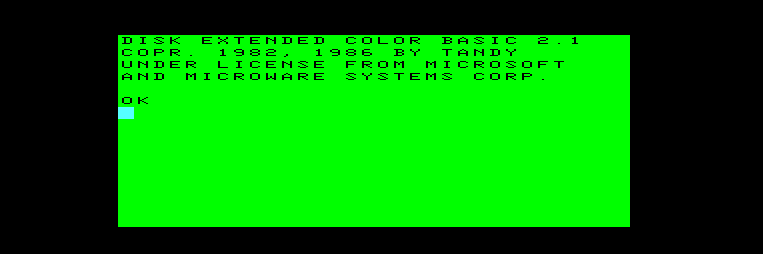
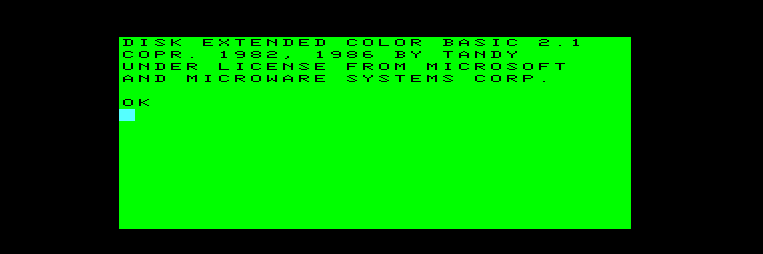
Sim: follow the 20260927 release
- sim.v: the coco3fpga ports changed (RED_O/GREEN_O/BLUE_O, PROBE_O/PROBE_I,
  Display_Debug) and so did the switch word (rs_swap, UART_INPUT, and the cart
  interrupt option on SWITCH[9]); mirror CoCo3.sv. SNAC inputs idle high.
- rtl/ovo.v: Verilog translation of the new rtl/OVO.vhd overlay; the
  Makefile drops the removed Mister_Video_GIMEX.v.
- PIX_CLK is now a clk_sys enable, high 2 of every 4 cycles, fed to the
  mixer's ce_pix. Capture video as video_mixer.sv does: on a clk_sys rising
  edge, one pixel per rising edge of the enable.
- New reference screenshots: the release's video timing moves the picture
  about 2 pixels; text checks unchanged.
- Commit tests/dw_boot.sh, which the dw_boot* ignore pattern was hiding.

diff --git a/verilator/sim_main.cpp b/verilator/sim_main.cpp
@@ -433,7 +433,6 @@ static void sim_step() {
 	const bool c28  = !((k >> 2) & 1);
 	const bool c14  = !((k >> 3) & 1);
 	const bool sys_rise = c57 && !top->CLK_57;
-	const bool pix_rise = c14 && !top->CLK_14;
 
 	// 50 MHz, free-running and asynchronous to the rest, as on the board.
 	clk50_acc += fast_clocks ? 8730 : 4365;   // step length in ps
@@ -454,6 +453,18 @@ static void sim_step() {
 		b_din  = top->dbg_din;
 		b_dout = top->dbg_dout;
 		b_rs232 = top->dbg_rs232_en;
+
+		// Video is captured the way sys/video_mixer.sv does it: on a clk_sys
+		// rising edge, taking the values that stand before the edge. The core's
+		// pixel enable (PIX_CLK) is high for 2 of every 4 clk_sys cycles; the
+		// mixer sees it oscillate and takes one pixel per rising edge
+		// (~old_ce & ce_pix), and so does this.
+		static bool old_ce = false;
+		if (top->CE_PIXEL && !old_ce) {
+			uint32_t colour = 0xFF000000 | (top->VGA_B << 16) | (top->VGA_G << 8) | top->VGA_R;
+			video.Clock(top->VGA_HB, top->VGA_VB, top->VGA_HS, top->VGA_VS, colour);
+		}
+		old_ce = top->CE_PIXEL;
 
 		bus.BeforeEval();
 		blk.BeforeEval(main_time);
@@ -531,10 +542,6 @@ static void sim_step() {
 		old_irqn = top->dbg_irqn;
 	}
 
-	if (pix_rise) {
-		uint32_t colour = 0xFF000000 | (top->VGA_B << 16) | (top->VGA_G << 8) | top->VGA_R;
-		video.Clock(top->VGA_HB, top->VGA_VB, top->VGA_HS, top->VGA_VS, colour);
-	}
 
 	main_time++;
 }

diff --git a/verilator/README.md b/verilator/README.md
@@ -156,7 +156,9 @@ pty; `tests/fujinet_boot.sh`).
    `HDB-DOS 1.5 SY6551 COCO 3`, and transmitted nothing. On a real CoCo the
    SCS line covers only `$FF40-$FF5F`, and the RS-232 Pak decodes `$FF68` from
    the address bus, so it works in any slot. **Fix:** `RS232_EN` no longer
-   looks at `MPI_SCS`.
+   looks at `MPI_SCS`. (Upstream's 20260927 release moved the decode to slots
+   2 and 4, `MPI_SCS[0] == 1`; HDB-DOS carts can only boot from slot 3, so
+   that still missed every access.)
 2. **The 19,200 cart received at 115,200.** `HDBDW3L3_19200.CCC` writes
    control `$0F`. Bit 4 = 0 selects the "external" receive clock, which
    `uart_6551.v` tied to the 1.8475 MHz enable, i.e. 115,200 baud. The cart
@@ -173,7 +175,8 @@ pty; `tests/fujinet_boot.sh`).
    A reset cleared it, which is why "load cart, then Reset" worked. The OSD's
    "Cart Interrupt Disabled" option was not connected to anything. **Fix:** a
    cart that starts with `DK` gets a cold boot instead, the way BASIC starts
-   it at power-on, and the OSD option now suppresses the autostart interrupt.
+   it at power-on, and the OSD option (Debug menu, `status[19]` ->
+   `SWITCH[9]`) now suppresses the autostart interrupt.
    Program paks behave as before. The sim reproduces both cases with
    `--cart-frame N`, which loads the cart after boot the way the OSD and MGL
    do.
@@ -229,6 +232,7 @@ names and ports:
 | `rtl/rom/coco_rom_16.vhd` | `rtl/coco_rom.v` (`COCO_ROM_16`) |
 | `rtl/rom/coco3_char_rom.vhd` | `rtl/coco_rom.v` (`coco3_Char_ROM`) + `rtl/coco3_char_rom.mem` |
 | `rtl/sram/coco_ram.vhd`, `coco_vid_ram_buf.vhd` | `rtl/coco_sram.v` (`COCO_SRAM`, `COCO_VID_RAM_BUF`) |
+| `rtl/OVO.vhd` (debug / "NO ROM" overlay) | `rtl/ovo.v` (`ovo`) |
 
 `make mem` (`gen_mem.py`) regenerates `rtl/coco3_char_rom.mem` from the font
 table in the VHDL and `rtl/vdac.mem` from `rtl/VDAC.mif`.
